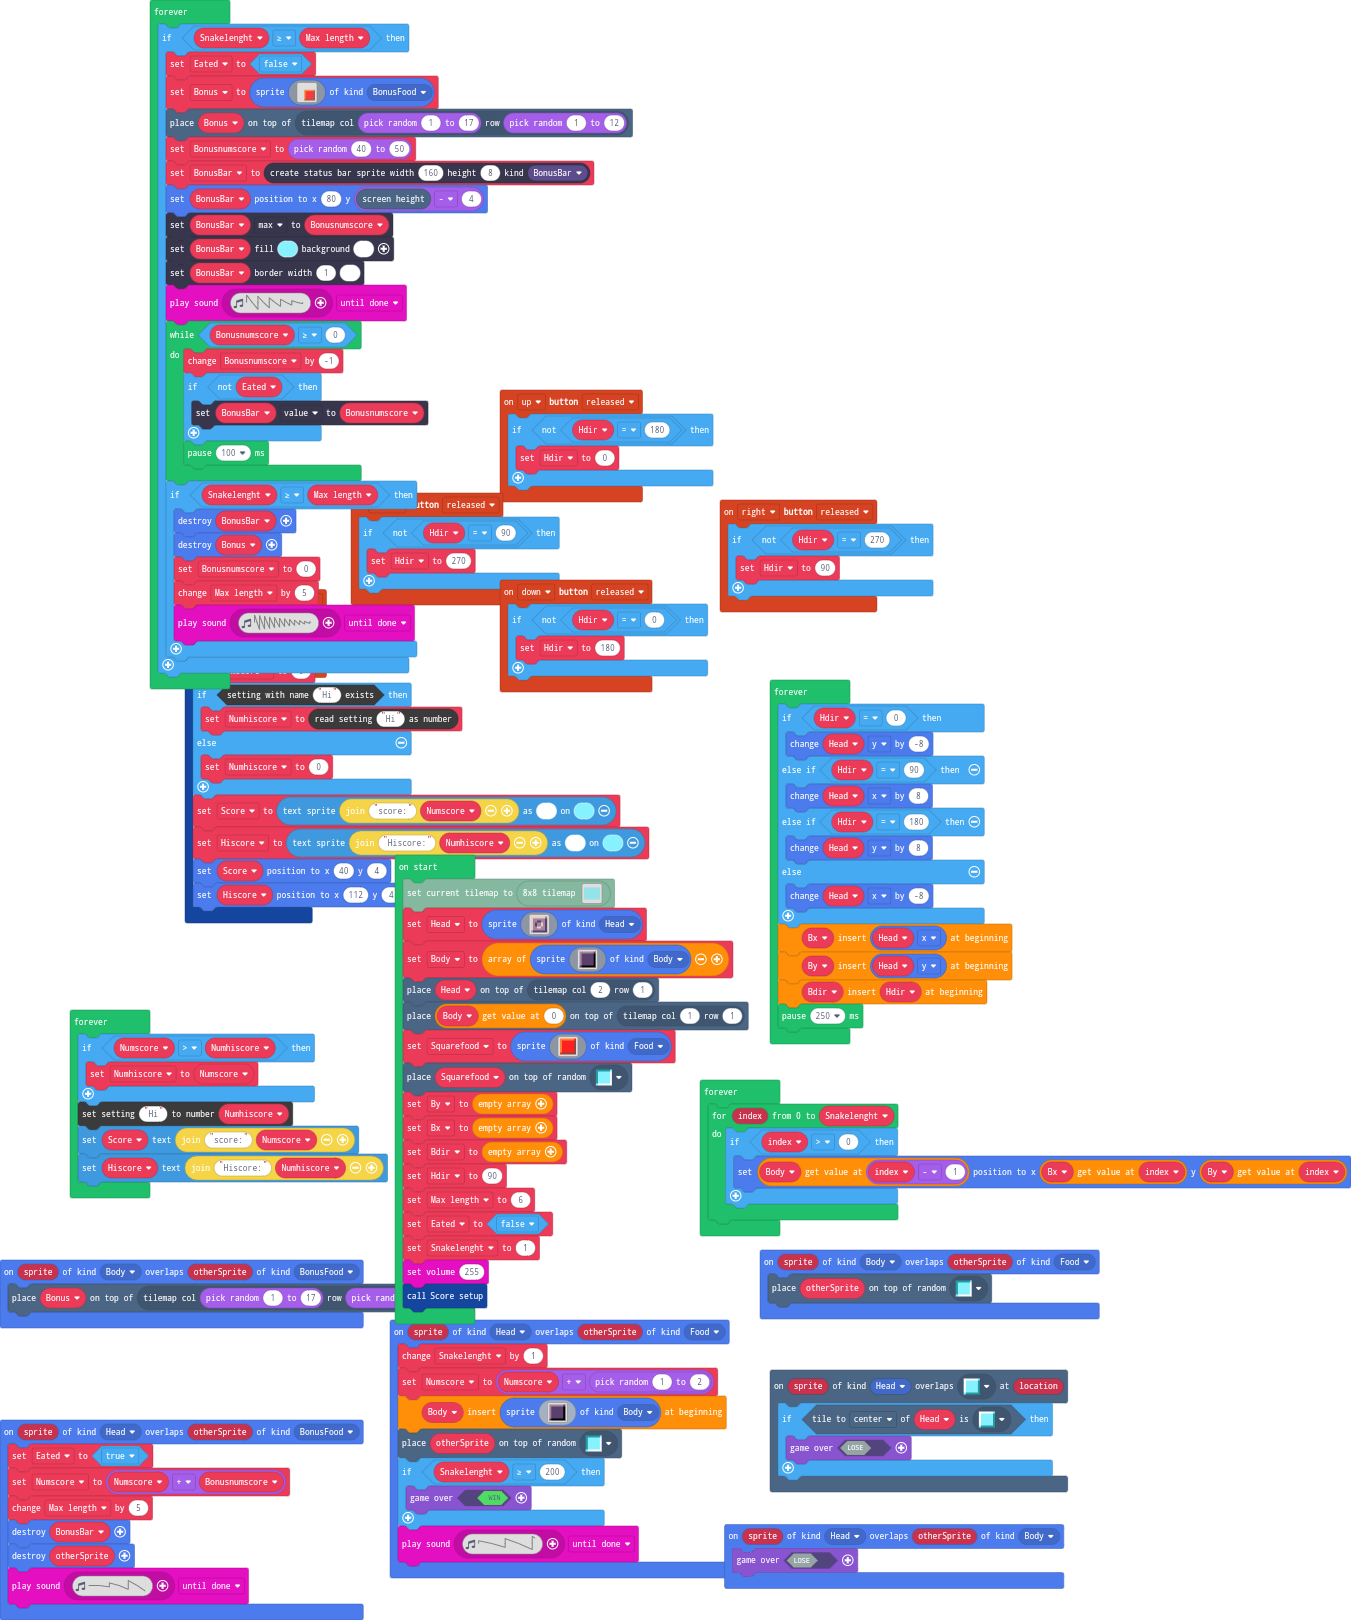
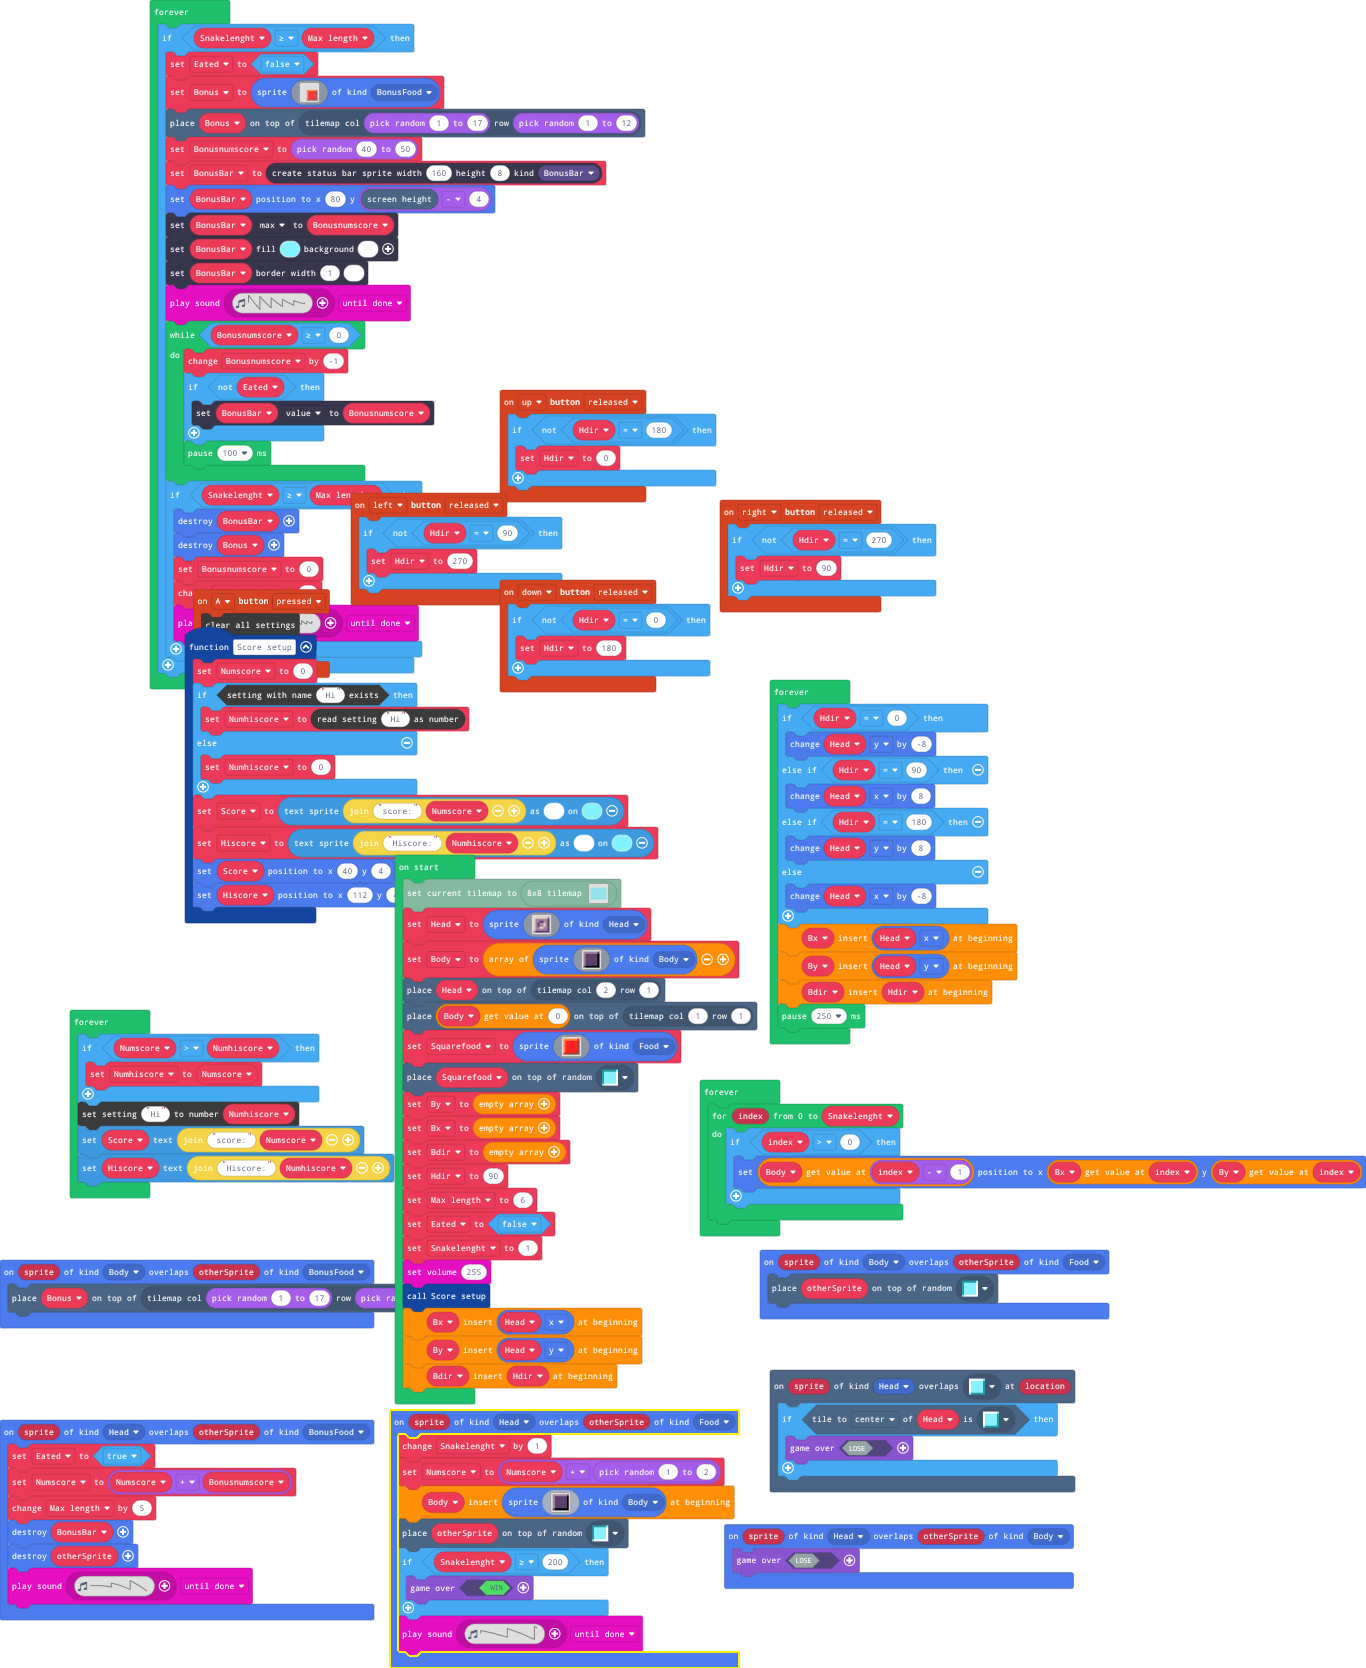
Update main.blocks, main.ts

diff --git a/main.ts b/main.ts
@@ -139,6 +139,9 @@ Eated = false
 Snakelenght = 1
 music.setVolume(255)
 Score_setup()
+Bx.unshift(Head.x)
+By.unshift(Head.y)
+Bdir.unshift(Hdir)
 forever(function () {
     if (Snakelenght >= Max_length) {
         Eated = false
